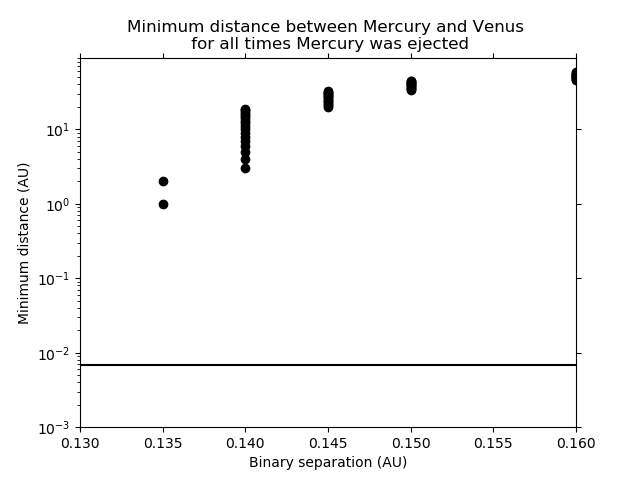
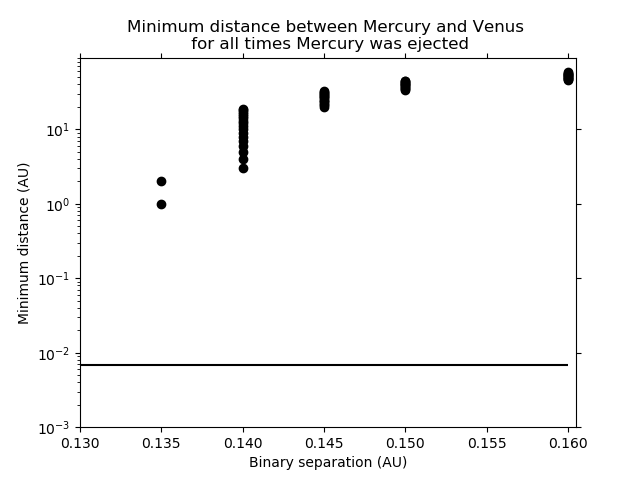
Min distances

diff --git a/min_distance.py b/min_distance.py
@@ -3,11 +3,13 @@ matplotlib.use("Agg")
 import matplotlib.pyplot as plt
 import os
 import numpy as np
-abin = [0.13,0.135,0.14,0.145,0.15,0.155,0.16]
-#abin = [0.3,0.32,0.34,0.36,0.38,0.4]
+#abin = [0.13,0.135,0.14,0.145,0.15,0.155,0.16]
+abin = [0.3,0.32,0.34,0.36,0.38,0.4]
 #abin = [0.42,0.44,0.46,0.48,0.5,0.52,0.54]
 m_ven = 2.4478383396645447*10**-6
-r_hill = 0.72333*(1+0.00678)*(m_ven/3.0)**(1/3)
+m_earth = 3.0404326462685257*10**-6
+m_mars = 3.227154450538743*10**-7
+r_hill = 0.72333*(1+0.00678)*(m_ven/3.0)**(1/3.0)
 rmin = [[]]
 for sun_sma in abin:
 	if os.path.isfile("a{}/rmin.txt".format(sun_sma)):
@@ -15,17 +17,21 @@ for sun_sma in abin:
 			for line in file:
 				rmin[abin.index(sun_sma)].append(line.split("\n")[0])
 	rmin.append([])
+
 fig, axes = plt.subplots()
 for x,y in zip(abin,rmin):
 	plt.scatter([x]*len(y),y,color = "black")
 axes.tick_params(top = True, bottom = True, left = True, right = True)
-plt.hlines(r_hill, xmin = min(abin),xmax = max(abin), label = "largest Hill sphere of Venus")
+plt.hlines(r_hill, xmin = min(abin),xmax = max(abin), label = "largest Hill sphere of Earth")
 plt.xlabel("Binary separation (AU)")
 plt.ylabel("Minimum distance (AU)")
 plt.yscale("log")
-plt.xlim(right = 0.165,left = 0.125)
+plt.xlim(right = 0.3005,left = 0.4005)
 plt.ylim(bottom = 0.001)
-plt.title("Minimum distance between Mercury and Venus \n for all times Mercury was ejected")
+plt.title("Minimum distance between Venus and Earth \n for all times Mercury was ejected")
 plt.xticks(abin)
-plt.savefig("min_dist_merc.png")
+plt.savefig("min_dist_ven.png")
 plt.close()
+
+#print((m_ven/3)**(1/3.0))
+
